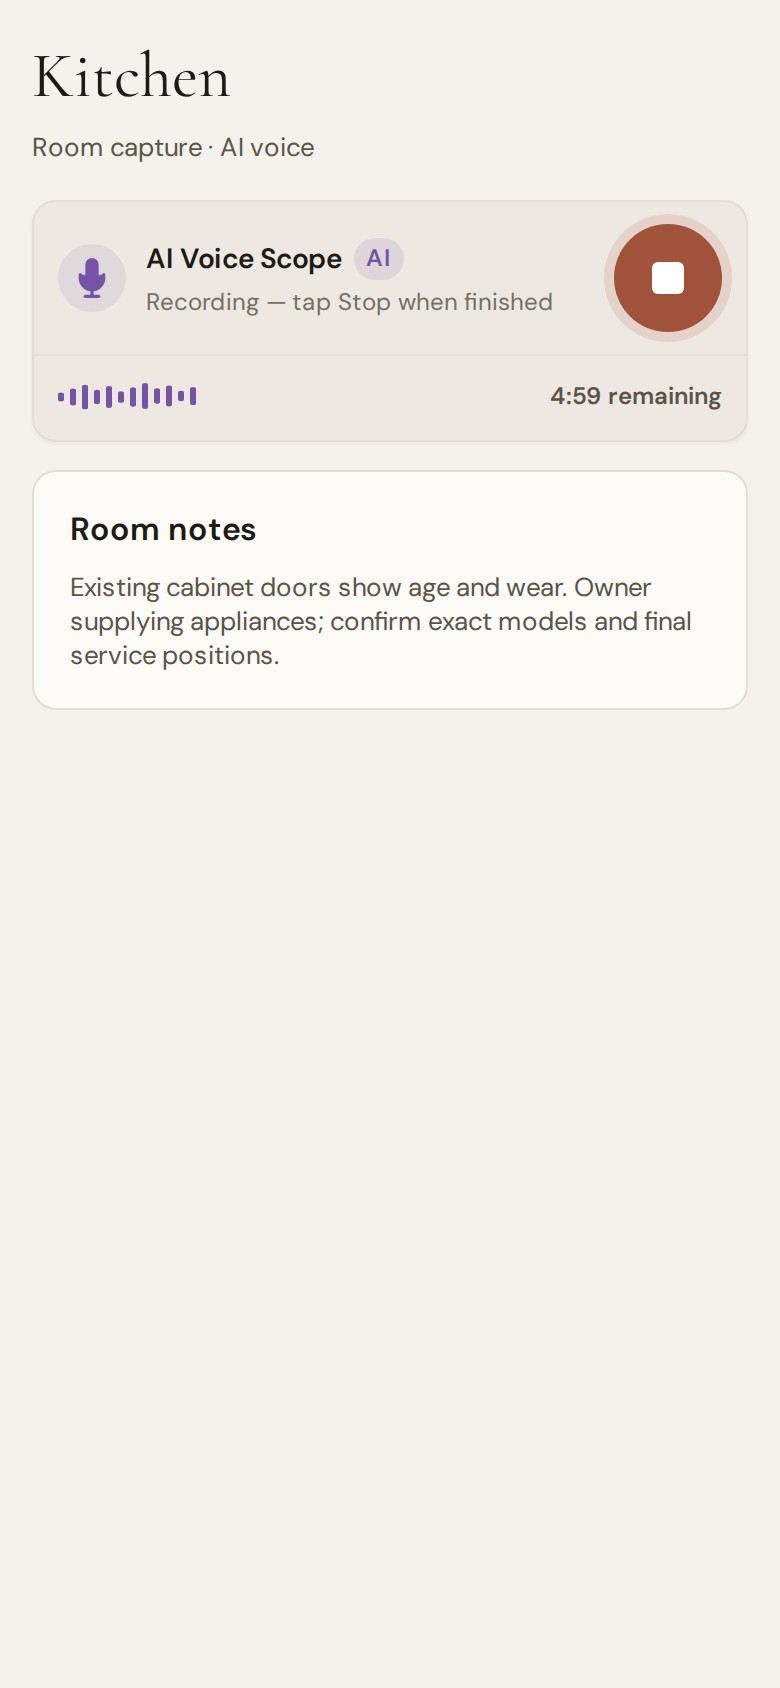
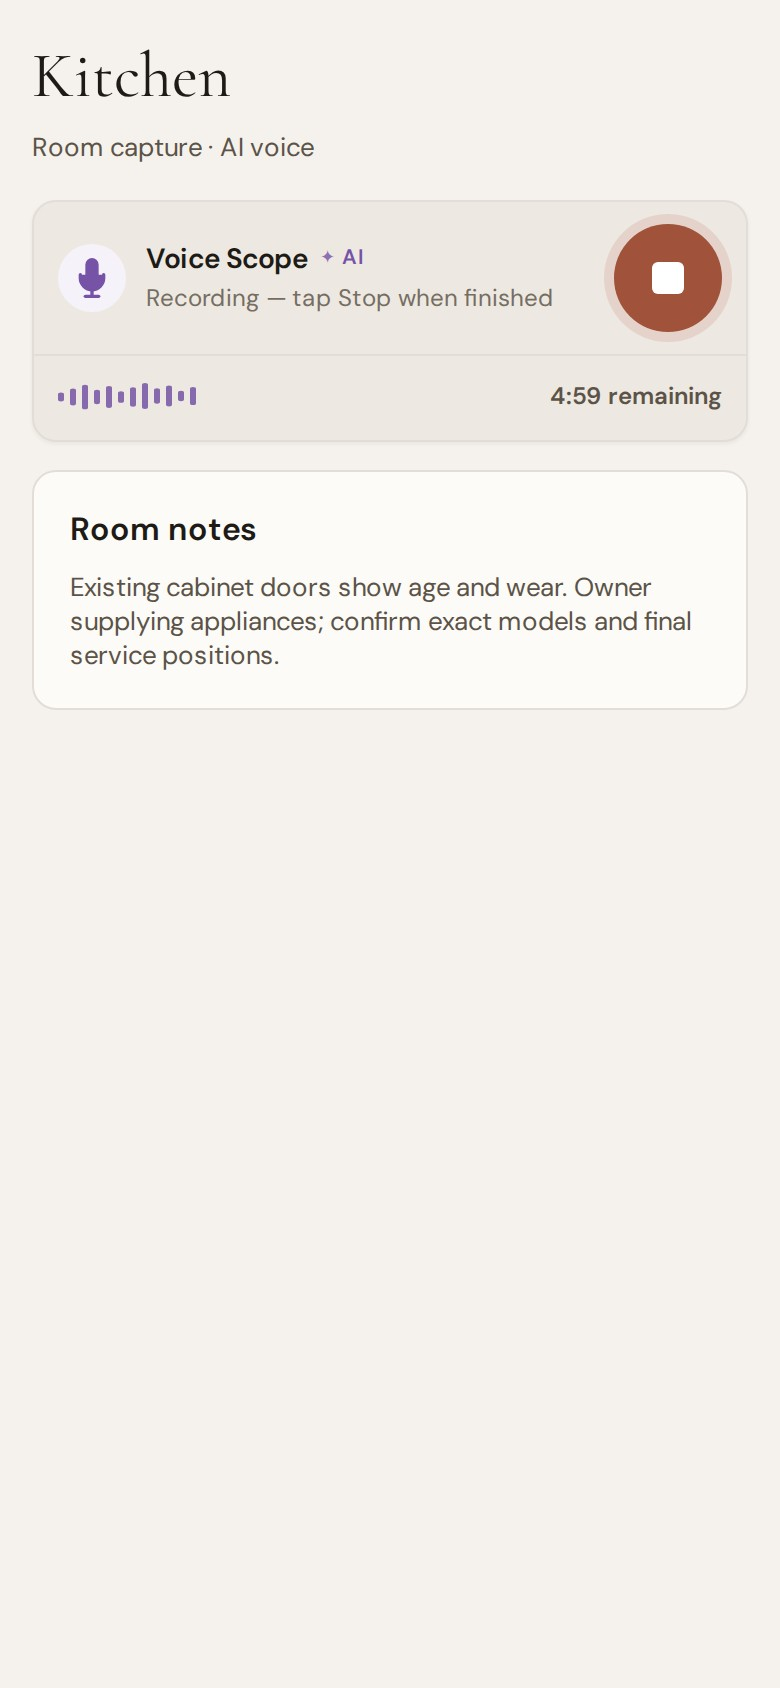
Sync actual AI-styled ScopeSnap phone captures into marketing pages

Changed region(s): [[0.0615, 0.1232, 0.5846, 0.1848], [0.6154, 0.154, 0.7077, 0.1848]]

diff --git a/how-it-works.html b/how-it-works.html
@@ -100,11 +100,11 @@
   </section>
 
   <div class="walk-steps">
-<section class="walk-step" id="start"><div class="wrap walk-grid"><div class="walk-copy"><div class="walk-number">01 / PlanScan</div><h2>Start with the plans.<br><em>Not a blank page.</em></h2><p>Upload a plan and review the rooms ScopeSnap identifies. Keep, edit or skip rooms before they are added to the job.</p><p>Prefer to start on site? Add rooms yourself in a few taps.</p></div><figure class="walk-shot tall"><a href="/images/screen-planscan.jpg?v=app20261010d77" target="_blank" rel="noopener" aria-label="Open full PlanScan view"><img src="/images/screen-planscan.jpg?v=app20261010d77" width="780" height="1688" loading="lazy" alt="PlanScan ScopeSnap screen"/></a><figcaption>Plan Scan · Upload measured floor plans and review extracted rooms</figcaption></figure></div></section>
-<section class="walk-step"><div class="wrap walk-grid"><div class="walk-copy"><div class="walk-number">02 / Photos and AI</div><h2>Keep every site photo<br><em>with the right room.</em></h2><p>Take photos as you go, room by room. Each photo is connected to its location and can appear in the finished report.</p><p>Open the AI brief to see observations worth checking, then review the notes yourself.</p></div><figure class="walk-shot tall"><a href="/images/screen-photo.jpg?v=app20261010d77" target="_blank" rel="noopener" aria-label="Open full Photos and AI view"><img src="/images/screen-photo.jpg?v=app20261010d77" width="780" height="1688" loading="lazy" alt="Photos and AI ScopeSnap screen"/></a><figcaption>Room capture · Photos, notes and AI observations</figcaption></figure></div></section>
-<section class="walk-step"><div class="wrap walk-grid"><div class="walk-copy"><div class="walk-number">03 / AI Voice Capture</div><h2>Talk through the work.<br><em>Let the notes take shape.</em></h2><p>Speak naturally while you inspect. Capture strip-out, layout changes, materials and the things that need confirmation.</p><p>ScopeSnap helps turn the recording into an editable written scope — you approve the wording.</p></div><figure class="walk-shot tall"><a href="/images/screen-voice.jpg?v=app20261010d77" target="_blank" rel="noopener" aria-label="Open full AI Voice Capture view"><img src="/images/screen-voice.jpg?v=app20261010d77" width="780" height="1688" loading="lazy" alt="AI Voice Capture ScopeSnap screen"/></a><figcaption>AI Voice · Record, review and save</figcaption></figure></div></section>
-<section class="walk-step"><div class="wrap walk-grid"><div class="walk-copy"><div class="walk-number">04 / Tape Measure</div><h2>Measurements captured.<br><em>While you're standing there.</em></h2><p>Use the camera-assisted Tape Measure with a known reference to estimate distances, then save them against the room. Enter exact dimensions manually whenever needed.</p><p>Camera readings are approximate. Critical dimensions and set-out still need checking on site.</p></div><figure class="walk-shot tall"><a href="/images/screen-measure.jpg?v=app20261010d77" target="_blank" rel="noopener" aria-label="Open full Tape Measure view"><img src="/images/screen-measure.jpg?v=app20261010d77" width="780" height="1688" loading="lazy" alt="Tape Measure ScopeSnap screen"/></a><figcaption>Camera Tape Measure · Approximate measurements</figcaption></figure></div></section>
-<section class="walk-step"><div class="wrap walk-grid"><div class="walk-copy"><div class="walk-number">05 / Job overview</div><h2>One place to review.<br><em>Nothing lost along the way.</em></h2><p>Review rooms, notes, measurements and photography from one connected job record.</p><p>Refine the draft and check everything before preparing the scope.</p></div><figure class="walk-shot tall"><a href="/images/screen-overview.jpg?v=app20261010d77" target="_blank" rel="noopener" aria-label="Open full Job overview view"><img src="/images/screen-overview.jpg?v=app20261010d77" width="780" height="1688" loading="lazy" alt="Job overview ScopeSnap screen"/></a><figcaption>Job overview · Organised by room</figcaption></figure></div></section>
+<section class="walk-step" id="start"><div class="wrap walk-grid"><div class="walk-copy"><div class="walk-number">01 / PlanScan</div><h2>Start with the plans.<br><em>Not a blank page.</em></h2><p>Upload a plan and review the rooms ScopeSnap identifies. Keep, edit or skip rooms before they are added to the job.</p><p>Prefer to start on site? Add rooms yourself in a few taps.</p></div><figure class="walk-shot tall"><a href="/images/screen-planscan.jpg?v=ai20261010" target="_blank" rel="noopener" aria-label="Open full PlanScan view"><img src="/images/screen-planscan.jpg?v=ai20261010" width="780" height="1688" loading="lazy" alt="PlanScan ScopeSnap screen"/></a><figcaption>Plan Scan · Upload measured floor plans and review extracted rooms</figcaption></figure></div></section>
+<section class="walk-step"><div class="wrap walk-grid"><div class="walk-copy"><div class="walk-number">02 / Photos and AI</div><h2>Keep every site photo<br><em>with the right room.</em></h2><p>Take photos as you go, room by room. Each photo is connected to its location and can appear in the finished report.</p><p>Open the AI brief to see observations worth checking, then review the notes yourself.</p></div><figure class="walk-shot tall"><a href="/images/screen-photo.jpg?v=ai20261010" target="_blank" rel="noopener" aria-label="Open full Photos and AI view"><img src="/images/screen-photo.jpg?v=ai20261010" width="780" height="1688" loading="lazy" alt="Photos and AI ScopeSnap screen"/></a><figcaption>Room capture · Photos, notes and AI observations</figcaption></figure></div></section>
+<section class="walk-step"><div class="wrap walk-grid"><div class="walk-copy"><div class="walk-number">03 / AI Voice Capture</div><h2>Talk through the work.<br><em>Let the notes take shape.</em></h2><p>Speak naturally while you inspect. Capture strip-out, layout changes, materials and the things that need confirmation.</p><p>ScopeSnap helps turn the recording into an editable written scope — you approve the wording.</p></div><figure class="walk-shot tall"><a href="/images/screen-voice.jpg?v=ai20261010" target="_blank" rel="noopener" aria-label="Open full AI Voice Capture view"><img src="/images/screen-voice.jpg?v=ai20261010" width="780" height="1688" loading="lazy" alt="AI Voice Capture ScopeSnap screen"/></a><figcaption>AI Voice · Record, review and save</figcaption></figure></div></section>
+<section class="walk-step"><div class="wrap walk-grid"><div class="walk-copy"><div class="walk-number">04 / Tape Measure</div><h2>Measurements captured.<br><em>While you're standing there.</em></h2><p>Use the camera-assisted Tape Measure with a known reference to estimate distances, then save them against the room. Enter exact dimensions manually whenever needed.</p><p>Camera readings are approximate. Critical dimensions and set-out still need checking on site.</p></div><figure class="walk-shot tall"><a href="/images/screen-measure.jpg?v=ai20261010" target="_blank" rel="noopener" aria-label="Open full Tape Measure view"><img src="/images/screen-measure.jpg?v=ai20261010" width="780" height="1688" loading="lazy" alt="Tape Measure ScopeSnap screen"/></a><figcaption>Camera Tape Measure · Approximate measurements</figcaption></figure></div></section>
+<section class="walk-step"><div class="wrap walk-grid"><div class="walk-copy"><div class="walk-number">05 / Job overview</div><h2>One place to review.<br><em>Nothing lost along the way.</em></h2><p>Review rooms, notes, measurements and photography from one connected job record.</p><p>Refine the draft and check everything before preparing the scope.</p></div><figure class="walk-shot tall"><a href="/images/screen-overview.jpg?v=ai20261010" target="_blank" rel="noopener" aria-label="Open full Job overview view"><img src="/images/screen-overview.jpg?v=ai20261010" width="780" height="1688" loading="lazy" alt="Job overview ScopeSnap screen"/></a><figcaption>Job overview · Organised by room</figcaption></figure></div></section>
 <section class="walk-step"><div class="wrap walk-grid"><div class="walk-copy"><div class="walk-number">06 / Professional reports</div><h2>Two detailed PDFs.<br><em>Ready for the right people.</em></h2><p>Share a photo-rich client report, or generate a detailed internal version with estimating quantities, room measurements and site checks.</p><p>View the complete <a href="/sample-client-report.pdf?v=app20261010d77" target="_blank" rel="noopener">client report ↗</a> or <a href="/sample-internal-report.pdf?v=app20261010d77" target="_blank" rel="noopener">internal report ↗</a>.</p></div><figure class="walk-shot report"><a href="/sample-client-report.pdf?v=app20261010d77" target="_blank" rel="noopener" aria-label="Open full Professional reports view"><img src="/images/report-client-detail.jpg?v=app20261010d77" width="931" height="1317" loading="lazy" alt="Professional reports ScopeSnap screen"/></a><figcaption>Client report · App-generated scope with room photos</figcaption></figure></div></section>
 </div>
   <section class="walk-outro">

diff --git a/index.html b/index.html
@@ -147,7 +147,7 @@
       <div class="phone-shell">
         <div class="phone-notch"></div>
         <img
-          src="/images/screen-overview.jpg?v=app20261010d77"
+          src="/images/screen-overview.jpg?v=ai20261010"
           loading="eager"
           width="780" height="1688"
           alt="ScopeSnap job overview with renovation room details and photo galleries"
@@ -261,22 +261,22 @@
     <div class="ps-product-grid">
       <article class="ps-feature-card">
         <div class="ps-feature-copy"><span class="ps-step">01 / PLANSCAN</span><h3>From floor plan<br>to room list.</h3><p>Upload a plan, review the rooms and bring the details into your next walkthrough. You stay in control of what gets added.</p></div>
-        <a class="ps-phone" href="/images/screen-planscan.jpg?v=app20261010d77" target="_blank" rel="noopener" aria-label="View actual ScopeSnap Plan Scan screen"><img src="/images/screen-planscan.jpg?v=app20261010d77" alt="Actual ScopeSnap Plan Scan interface with a measured black-and-white Australian house floor plan" width="780" height="1688" loading="lazy"></a>
+        <a class="ps-phone" href="/images/screen-planscan.jpg?v=ai20261010" target="_blank" rel="noopener" aria-label="View actual ScopeSnap Plan Scan screen"><img src="/images/screen-planscan.jpg?v=ai20261010" alt="Actual ScopeSnap Plan Scan interface with a measured black-and-white Australian house floor plan" width="780" height="1688" loading="lazy"></a>
         <a class="ps-feature-link" href="/how-it-works">Explore PlanScan <span aria-hidden="true">↗</span></a>
       </article>
       <article class="ps-feature-card">
         <div class="ps-feature-copy"><span class="ps-step">02 / AI VOICE CAPTURE</span><h3>Walk. Talk.<br>Scope.</h3><p>Describe the work naturally on site. ScopeSnap turns your recording into structured notes you can check and edit.</p></div>
-        <a class="ps-phone" href="/images/screen-voice.jpg?v=app20261010d77" target="_blank" rel="noopener" aria-label="View actual ScopeSnap voice recording screen"><img src="/images/screen-voice.jpg?v=app20261010d77" alt="Actual ScopeSnap AI Voice Scope recording control with waveform, stop button and five-minute timer" width="780" height="1688" loading="lazy"></a>
+        <a class="ps-phone" href="/images/screen-voice.jpg?v=ai20261010" target="_blank" rel="noopener" aria-label="View actual ScopeSnap voice recording screen"><img src="/images/screen-voice.jpg?v=ai20261010" alt="Actual ScopeSnap AI Voice Scope recording control with waveform, stop button and five-minute timer" width="780" height="1688" loading="lazy"></a>
         <a class="ps-feature-link" href="#voice-demo">See voice to scope <span aria-hidden="true">↗</span></a>
       </article>
       <article class="ps-feature-card">
         <div class="ps-feature-copy"><span class="ps-step">03 / CAMERA TAPE MEASURE</span><h3>Point. Measure.<br>Capture.</h3><p>Record approximate on-site dimensions through the camera, or type in exact measurements. Save them with the room.</p></div>
-        <a class="ps-phone" href="/images/screen-measure.jpg?v=app20261010d77" target="_blank" rel="noopener" aria-label="View actual ScopeSnap Tape Measure screen"><img src="/images/screen-measure.jpg?v=app20261010d77" alt="Actual ScopeSnap camera Tape Measure with point-to-point line measuring a window" width="780" height="1688" loading="lazy"></a>
+        <a class="ps-phone" href="/images/screen-measure.jpg?v=ai20261010" target="_blank" rel="noopener" aria-label="View actual ScopeSnap Tape Measure screen"><img src="/images/screen-measure.jpg?v=ai20261010" alt="Actual ScopeSnap camera Tape Measure with point-to-point line measuring a window" width="780" height="1688" loading="lazy"></a>
         <span class="ps-feature-footnote">Camera measurements are estimates; verify critical set-out on site.</span>
       </article>
       <article class="ps-feature-card">
         <div class="ps-feature-copy"><span class="ps-step">04 / PHOTOS + AI</span><h3>Every photo.<br>In the right room.</h3><p>Keep site photos, observations and a detailed AI photo brief together — rather than searching through a camera roll later.</p></div>
-        <a class="ps-phone" href="/images/screen-photo.jpg?v=app20261010d77" target="_blank" rel="noopener" aria-label="View actual ScopeSnap AI photo brief screen"><img src="/images/screen-photo.jpg?v=app20261010d77" alt="Actual ScopeSnap photo lightbox displaying the pre-renovation kitchen and detailed AI photo observations" width="780" height="1688" loading="lazy"></a>
+        <a class="ps-phone" href="/images/screen-photo.jpg?v=ai20261010" target="_blank" rel="noopener" aria-label="View actual ScopeSnap AI photo brief screen"><img src="/images/screen-photo.jpg?v=ai20261010" alt="Actual ScopeSnap photo lightbox displaying the pre-renovation kitchen and detailed AI photo observations" width="780" height="1688" loading="lazy"></a>
         <a class="ps-feature-link" href="/how-it-works">See room capture <span aria-hidden="true">↗</span></a>
       </article>
     </div>
@@ -288,7 +288,7 @@
         <div class="ps-overview-metrics"><span>Room-by-room capture</span><span>Photo galleries</span><span>AI scope notes</span><span>Two report formats</span></div>
         <a href="https://app.scopesnap.com.au/?signup=1" class="btn-primary" data-track="cta-start-trial">See ScopeSnap for yourself <span aria-hidden="true">→</span></a>
       </div>
-      <a class="ps-overview-image" href="/images/screen-overview.jpg?v=app20261010d77" target="_blank" rel="noopener" aria-label="View actual ScopeSnap job overview screen"><img src="/images/screen-overview.jpg?v=app20261010d77" width="780" height="1688" loading="lazy" alt="Actual ScopeSnap job summary for an Australian home renovation, with rooms, photos and Plan Scan"></a>
+      <a class="ps-overview-image" href="/images/screen-overview.jpg?v=ai20261010" target="_blank" rel="noopener" aria-label="View actual ScopeSnap job overview screen"><img src="/images/screen-overview.jpg?v=ai20261010" width="780" height="1688" loading="lazy" alt="Actual ScopeSnap job summary for an Australian home renovation, with rooms, photos and Plan Scan"></a>
     </div>
   </div>
 </section>
@@ -316,7 +316,7 @@
       </div>
     </div>
     <p class="vd-sr">A site note reads: &#8220;righto, ensuite&#8217;s getting the full strip-out. Shower&#8217;s leaking behind the wall so we&#8217;re re-sheeting that, new waterproofing, wall-hung vanity, and the client wants matte black tapware throughout&#8221; &#8212; and ScopeSnap writes: full strip-out of existing ensuite; re-sheet shower wall with new waterproofing; supply and install wall-hung vanity; matte black tapware throughout.</p></div>
-    <figure class="product-screen scope-screen"><a href="/images/screen-scope.jpg?v=app20261010d77" target="_blank" rel="noopener" aria-label="Enlarge the editable scope screenshot (opens a new tab)"><img src="/images/screen-scope.jpg?v=app20261010d77" width="780" height="1688" loading="lazy" alt="Actual ScopeSnap Report tab showing client and internal PDF generation options"/></a><figcaption>Choose a report · Review before exporting</figcaption></figure>
+    <figure class="product-screen scope-screen"><a href="/images/screen-scope.jpg?v=ai20261010" target="_blank" rel="noopener" aria-label="Enlarge the editable scope screenshot (opens a new tab)"><img src="/images/screen-scope.jpg?v=ai20261010" width="780" height="1688" loading="lazy" alt="Actual ScopeSnap Report tab showing client and internal PDF generation options"/></a><figcaption>Choose a report · Review before exporting</figcaption></figure>
     </div>
   </div>
 </section>
